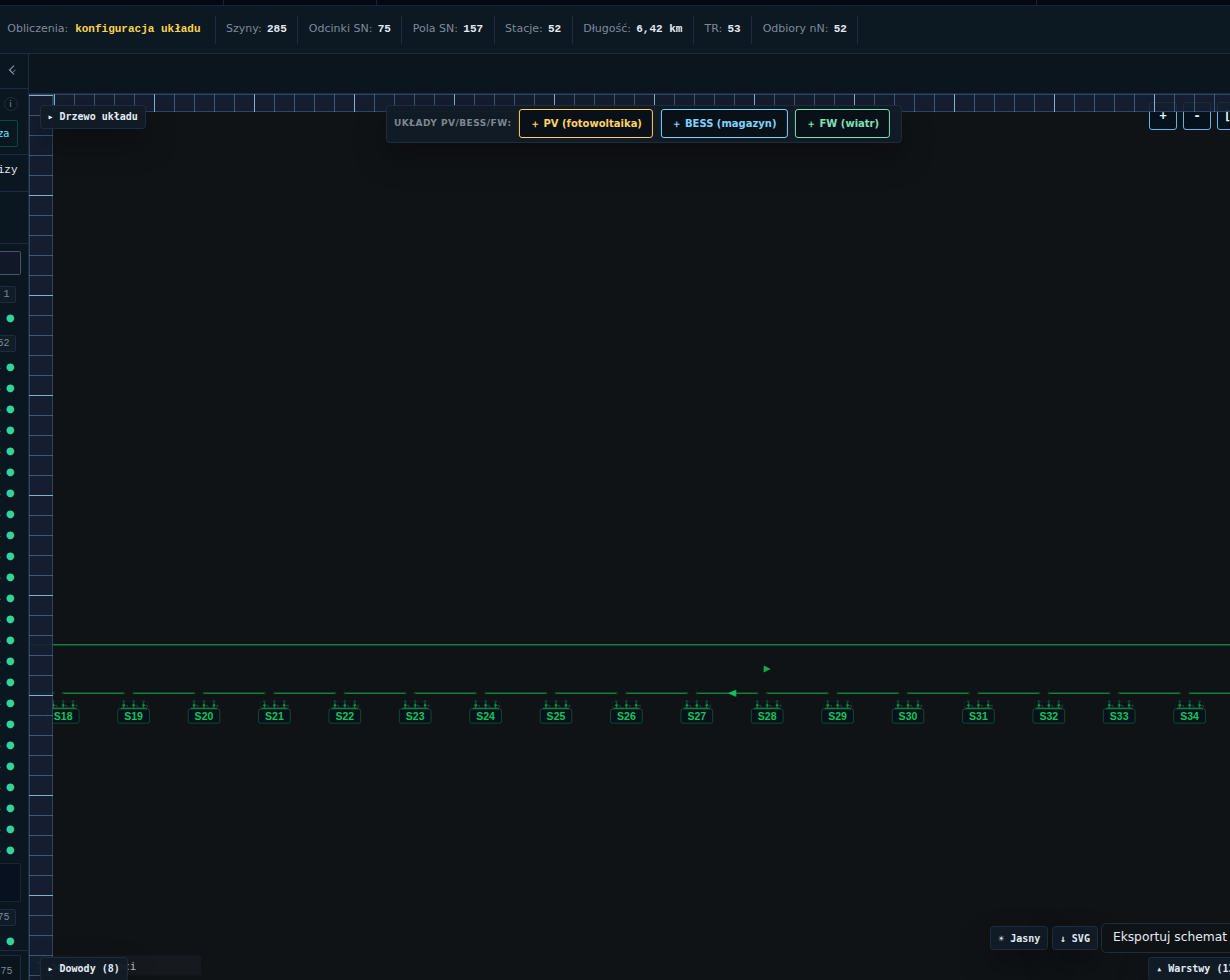
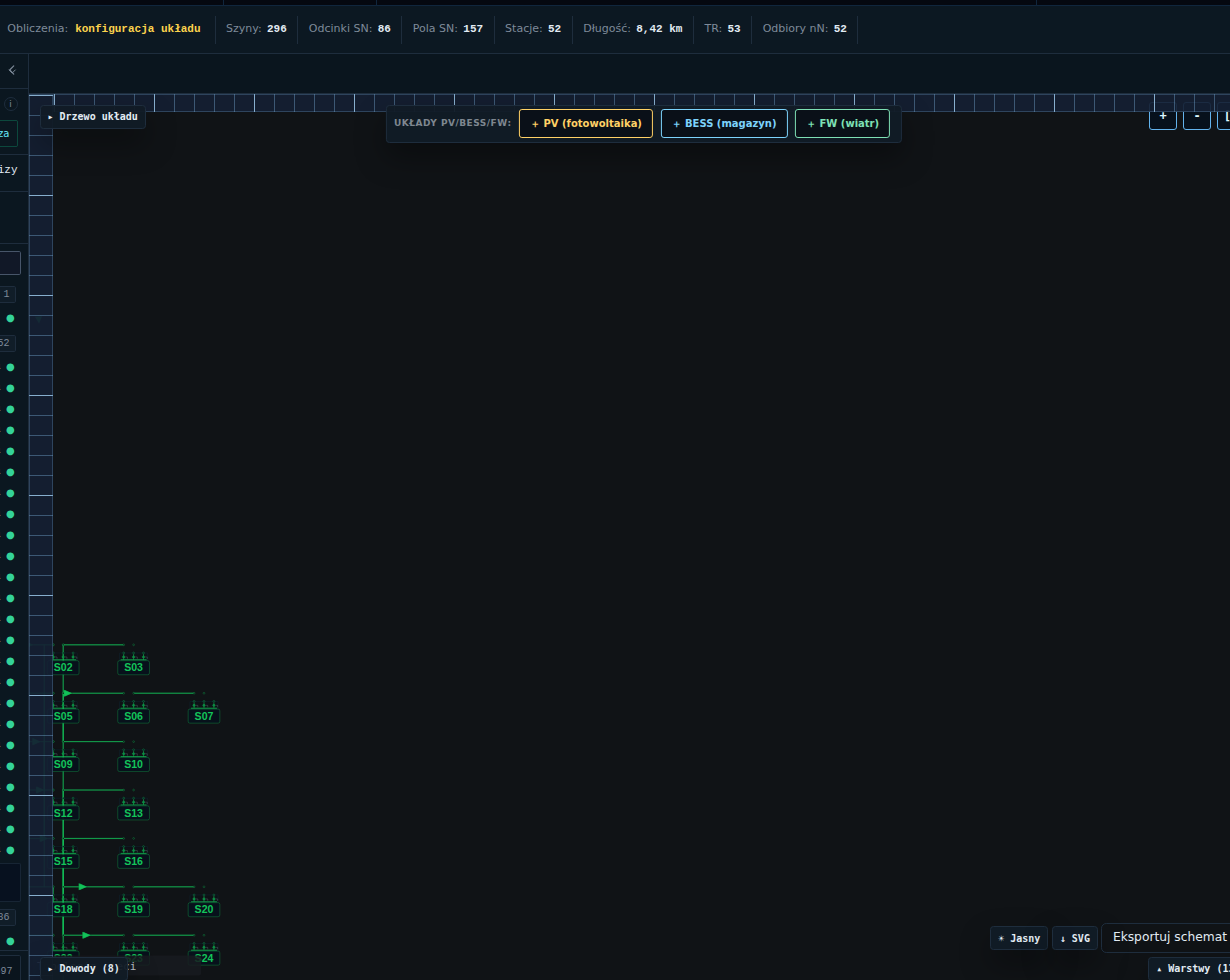
feat(sld): substrate drzewa (52 stacje + 12 lateralów) + diagnoza layoutu iteracja 1
Krok 1 z zielonego światła właściciela: generator daje teraz realny substrate
drzewa, nie płaski grzebień.

Generator (generate-large-network.mjs):
- payloady ops ustalone empirycznie (probe): branch from_ref=<feederFieldRef>.BRANCH;
  converter source_technology+connection_variant=block_transformer+station_ref;
- buduje 12 lateralów (odgałęzień) z pól FEEDER, każdy z 2-3 stacjami → 52 stacje,
  drzewo (296 szyn, 157 pól, 53 TR, 8,42 km).

USTALENIE LAYOUTU (ze zrzutu, ZASADA NR 2): adapter „kanały Y per run" FAKTYCZNIE
tworzy laterale (poziome rzędy stacji) — drzewo istnieje. Dwa precyzyjne defekty
do naprawy w następnej iteracji:
 (a) auto-fit zostawia drzewo malutkie w lewym-dolnym rogu (~25%, ~70% pusto) —
     bbox zawyżony względem skupionej treści;
 (b) laterale lewo-wyrównane do tego samego X (stos), zamiast od X stacji-rodzica
     → stos, nie rozłożone drzewo.
Następny krok: X lateralu względem rodzica + fit po realnym zasięgu treści.

OZE (V-10): generatorowy add_converter_source nadal der=0 (binding do poprawy).

UCZCIWIE: substrate + precyzyjna diagnoza layoutu (ZASADA NR 2), NIE domknięcie.
SLD < 8/10, nic nie zamknięte.

https://claude.ai/code/session_012yStGdSbPTGuB2CYmHXDHY

diff --git a/mv-design-pro/STAN_REPO.md b/mv-design-pro/STAN_REPO.md
@@ -47,6 +47,7 @@
 | D-06 | Dobór uziemienia (Petersen/rezystor), kompensacja Q, CVC/Volt-VAR, IEC 60853 (cykliczna) | §8C.7 | ZWERYFIKOWAĆ zakres | 5 |
 | D-10 | `ncrfg_compliance/checker.py` `DYNAMIC_TEST_IDS` zwracają `no_module` (legacy, niepodpięte do API) | — | DO WYGASZENIA (zastąpione przez `ncrfg_ptpiree`) | niski |
 | D-11 | API 501: `power_flow_comparisons`, `power_flow_runs`, `fault_loop` TT/IT | — | DECYZJA ZAKRESOWA | niski |
+| D-12 | **Tryb geo-schematyczny SLD** — odłożony (ENM bez współrzędnych geo); podłączyć do CGMES `DiagramLayout`/`PositionPoint` po D-02 | 7.6.C | ODŁOŻONY (zależny od D-02) | po D-02 |
 
 **Domknięte porządkowo 2026-05-28:** D-07 (`eligibility_service` — usunięta fraza „Funkcja w przygotowaniu"), D-08 (`frt_hvrt` — usunięte etykiety-wymówki), D-09 (`ncrfg_compliance/checker` docstring).
 
@@ -78,12 +79,12 @@
    - **V-07 = defekt RENDERU, nie modelu.** ENM ma pełny model terminali (`Port/PortRef/PortKind`, `endpoint_a_port/endpoint_b_port`, `starting_port_ref`, `external_ports`); `enmToSldAdapter.ts` go ignoruje, licząc geometrię ze sztywnych slotów (`Y_RUN_BASE`, `X_START + j×pitch`). Naprawa w adapterze, nie w modelu. Rozpływ/zwarcia wzdłuż połączeń mają na czym liczyć (model jest).
    - **Sieć 52 stacji (substrate `generate-large-network.mjs`) ujawniła „grzebień":** auto-layout = jeden płaski rząd, ~70% pustki, brak drzewa. To inadekwatność silnika layoutu przy skali — przebudowa, nie tweak.
    - **DECYZJA (właściciel):** layout + zakotwiczenie portów **równolegle**, przez wspólny kontrakt geometrii (silnik layoutu zwraca pozycje obiektów ORAZ portów; adapter rysuje krawędzie port→port, nie ze slotów).
-   - **DECYZJA (właściciel):** SLD **przełączalny topologiczny ↔ geo-schematyczny** — jedna prawda topologiczna ENM, dwie warstwy geometrii (zakaz drugiej prawdy). Tryb topologiczny: laterale w rankach (koniec grzebienia). Tryb geo: najpierw diagnoza, czy ENM ma współrzędne geo (jeśli nie → dług, nie zmyślać).
-   - **DIAGNOZA GEO (7.6.C — ustalona): ENM NIE MA współrzędnych geograficznych.** Zero `latitude/longitude/wgs/epsg/puwg/crs/srid` w `backend/src`; `Substation` ma tylko pola logiczne + `position_km` (odległość wzdłuż kabla). **Tryb geo = DŁUG** (źródło współrzędnych do ustalenia: import GIS / ręczne / CGMES `DiagramLayout` — wiąże z D-02). Nie udajemy geo na atrapach.
-   - **USTALENIE: brak dedykowanego silnika layoutu** — pozycje liczy `enmToSldAdapter.ts` ze slotów. Kontrakt geometrii (7.6.A) to nowa warstwa.
-   - **KONTRAKT zaprojektowany:** `docs/sld/SLD_GEOMETRY_CONTRACT_V1.md` — interfejs `LayoutEngine/LayoutResult/PortAnchor`, algorytm drzewa radialnego (magistrala + laterale w rankach), migracja adaptera (koniec slotów), oba tryby. Implementacja iteruje na substracie 52 stacji do ≥8/10.
-   - Próg §7.3 (11 warunków, ≥8/10) obowiązuje w OBU trybach na sieci ≥50 stacji.
-   - Do poprawy w generatorze: laterale (branch≈1) + `add_converter_source` payload (der=0) — by pokazać drzewo i wszystkie łańcuchy OZE (V-10).
+   - **DECYZJA (właściciel):** SLD **przełączalny topologiczny ↔ geo-schematyczny** — jedna prawda topologiczna ENM, dwie warstwy geometrii (zakaz drugiej prawdy). Tryb topologiczny: laterale w rankach (koniec grzebienia). Tryb geo: **diagnoza wykonana 2026-05-28 → ENM NIE MA współrzędnych geo** (tylko `position_km` topologiczne). **Tryb geo ODŁOŻONY jako dług D-12** — wartość naprawcza jest w topologicznym; geo podłączy się do CGMES `DiagramLayout`/`PositionPoint` (D-02) w swoim czasie. Robimy najpierw tryb topologiczny do ≥8/10.
+   - **Kontrakt geometrii dostarczony:** `docs/sld/SLD_GEOMETRY_CONTRACT_V1.md` — `LayoutEngine.layout(snapshot, mode) → LayoutResult` (pozycje obiektów + portów); adapter czyta kotwice, rysuje port→port. **Nie ma dedykowanego silnika layoutu** — to nowa warstwa, nie refaktor.
+   - Próg §7.3 (11 warunków, ≥8/10) obowiązuje dla trybu topologicznego na sieci ≥50 stacji.
+   - **POSTĘP (impl, iteracja 1, 2026-05-28):** generator naprawiony → substrate **52 stacje + 12 LATERALÓW** (drzewo; `sld_large_network*.png`). Payloady ops ustalone empirycznie (branch: `from_ref=<feederFieldRef>.BRANCH`; converter: `source_technology`+`connection_variant=block_transformer`+`station_ref`).
+   - **USTALENIE LAYOUTU (ze zrzutu 52-stacji z lateralami):** adapter „kanały Y per run" FAKTYCZNIE tworzy laterale (poziome rzędy stacji) — drzewo istnieje. ALE: **(a)** auto-fit zostawia drzewo malutkie w lewym-dolnym rogu (~25%, ~70% pusto) — bbox zawyżony względem skupionej treści; **(b)** laterale **lewo-wyrównane do tego samego X** (stos), zamiast startować od X stacji-rodzica → stos, nie rozłożone drzewo. **Następny krok impl: X lateralu względem rodzica + fit po realnym zasięgu treści.**
+   - OZE (V-10): generatorowy `add_converter_source` nadal der=0 (binding namespace/id do poprawy — probe działał z `FALOWNIK`/`inv-pv-1500`).
 1. **Reszta weryfikacji wizualnej** — harness interakcyjny (A-07, §7B.9-3/5/6), pozostałe surface'y.
 2. **K-04 + K-08** — walidacja progów V12.6 i sanity-bounds (wiarygodność wartości przed nowymi modułami).
 3. **D-04 ZIP** → **D-03 stabilność impedancyjna/SSCI** → **D-01 Arc Flash** → **D-02 CIM/CGMES** → **D-05/D-06**.
